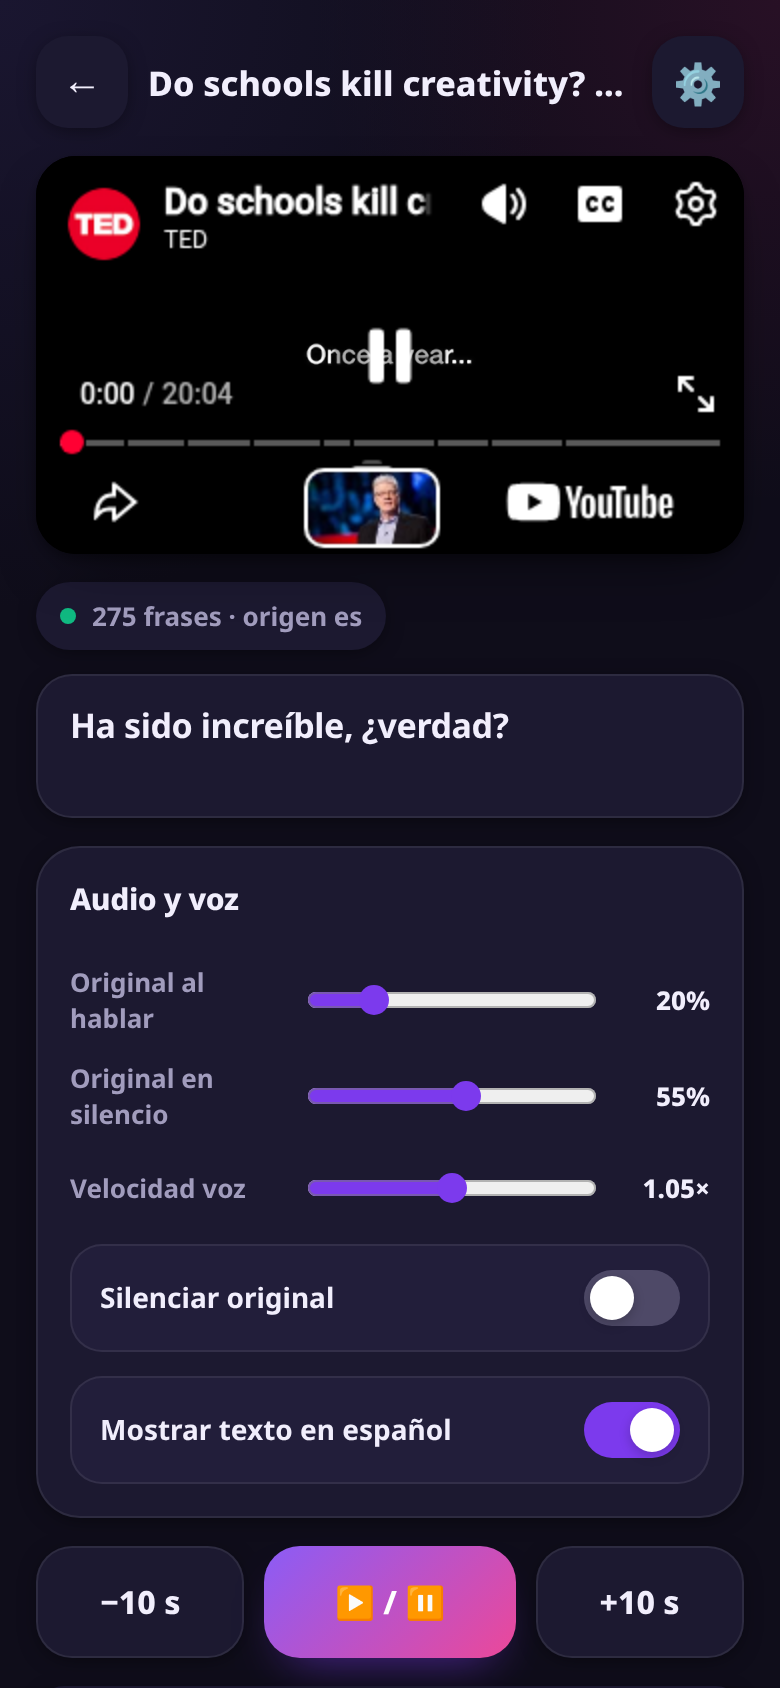
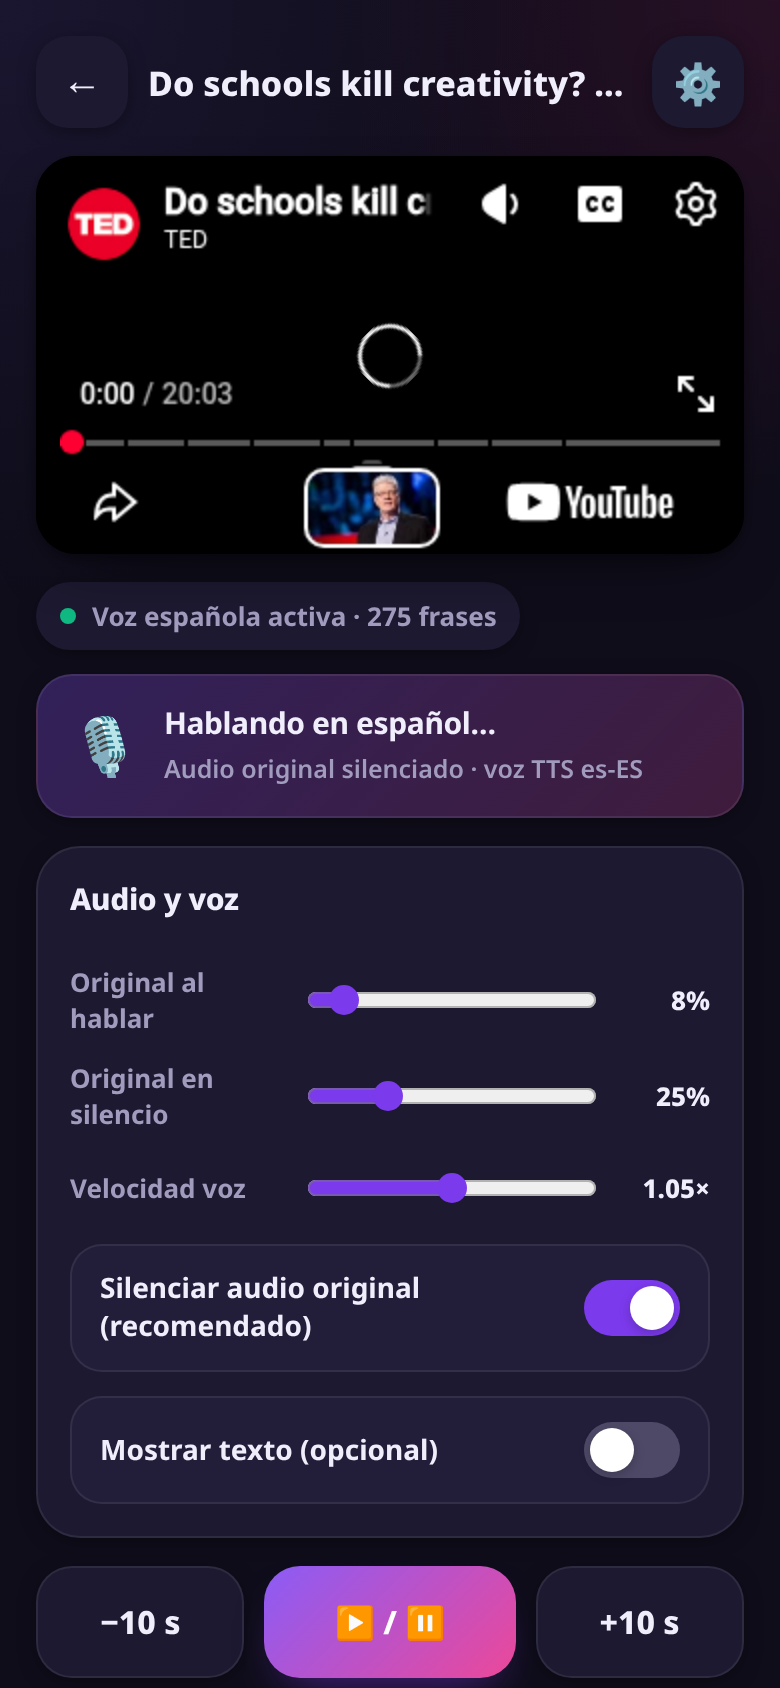
Sync voice-first build to gh-pages

diff --git a/app.js b/app.js
@@ -49,13 +49,13 @@
   ];
 
   const DEFAULT_SETTINGS = {
-    originalVolume: 20,      // 0–100 YouTube volume while Spanish speaks
-    idleVolume: 55,          // volume when not speaking
-    muteOriginal: false,
+    originalVolume: 8,       // residual original while Spanish speaks (if not muted)
+    idleVolume: 25,          // original between Spanish phrases (if not muted)
+    muteOriginal: true,      // product default: hear Spanish voice, not English audio
     voiceRate: 1.05,
     voicePitch: 1,
-    showCaptions: true,
-    lookahead: 0.35,         // seconds before caption start to trigger TTS
+    showCaptions: false,     // on-screen Spanish text is optional; TTS is the product
+    lookahead: 0.35,         // seconds before segment start to trigger TTS
     ducking: true,
     preferSpanishTrack: true,
     captionProxy: '',        // optional Cloudflare Worker URL
@@ -320,16 +320,34 @@
       applyDucking(true);
       state.currentIdx = idx;
       updateCaptionBox();
+      updateVoiceBanner();
     };
     u.onend = () => {
       state.speaking = false;
       applyDucking(false);
+      updateVoiceBanner();
     };
     u.onerror = () => {
       state.speaking = false;
       applyDucking(false);
+      updateVoiceBanner();
     };
     speechSynthesis.speak(u);
+  }
+
+
+  function updateVoiceBanner() {
+    const title = document.getElementById('voice-banner-title');
+    const sub = document.getElementById('voice-banner-sub');
+    if (!title || !sub) return;
+    title.textContent = state.speaking ? 'Hablando en español…' : 'Doblaje en español';
+    if (state.settings.muteOriginal) {
+      sub.textContent = 'Audio original silenciado · voz TTS es-ES';
+    } else if (state.settings.ducking) {
+      sub.textContent = `Original atenuado (${state.settings.originalVolume}%) mientras habla la voz`;
+    } else {
+      sub.textContent = 'Voz TTS + audio original a volumen normal';
+    }
   }
 
   function applyDucking(active) {
@@ -337,6 +355,7 @@
     if (state.settings.muteOriginal) {
       state.player.setVolume(0);
       state.player.mute?.();
+      updateVoiceBanner();
       return;
     }
     if (!state.settings.ducking) {
@@ -347,6 +366,7 @@
     state.player.unMute?.();
     const vol = active ? Number(state.settings.originalVolume) : Number(state.settings.idleVolume);
     state.player.setVolume(Math.max(0, Math.min(100, vol)));
+    updateVoiceBanner();
   }
 
   function syncLoop() {
@@ -401,7 +421,7 @@
       if (found >= 0) idx = found;
     }
     if (idx < 0 || !state.segments[idx]) {
-      el.innerHTML = '<span style="color:var(--muted);font-weight:600">Esperando voz en español…</span>';
+      el.innerHTML = '<span style="color:var(--muted);font-weight:600">Reproduciendo voz en español…</span>';
       return;
     }
     const s = state.segments[idx];
@@ -437,7 +457,7 @@
       events: {
         onReady: (e) => {
           applyDucking(false);
-          state.status = { kind: 'ok', msg: `${state.segments.length} frases listas · voz ES` };
+          state.status = { kind: 'ok', msg: `Voz española activa · ${state.segments.length} frases` };
           renderStatusOnly();
           syncLoop();
           try { e.target.playVideo(); } catch { /* autoplay may block */ }
@@ -495,7 +515,7 @@
 
       <section class="hero-card">
         <h2>Pega un enlace de YouTube</h2>
-        <p>Usamos los subtítulos del vídeo (preferimos español), los leemos en voz alta y atenuamos el audio original.</p>
+        <p>Escucha el vídeo en <b>voz española</b>: traducimos el habla (vía subtítulos internos) y la narramos con TTS. El audio original va silenciado o atenuado.</p>
         <div class="url-row">
           <input id="url-input" type="url" inputmode="url" autocomplete="off" spellcheck="false"
             placeholder="https://youtube.com/watch?v=…">
@@ -505,7 +525,7 @@
 
       <section class="card">
         <h3>Cómo funciona</h3>
-        <p class="hint">1) Subtítulos del vídeo → 2) traducción a español si hace falta → 3) voz TTS sincronizada (retraso típico 1–3 s). Sin subtítulos no hay doblaje automático; puedes pegar una transcripción.</p>
+        <p class="hint">1) Obtenemos la transcripción del vídeo (solo como fuente) → 2) la pasamos a español → 3) <b>voz TTS en español</b> sincronizada con el vídeo (retraso típico 1–3 s). El texto en pantalla es opcional y viene desactivado. Sin transcripción no hay doblaje; puedes pegar una manualmente.</p>
       </section>
 
       <section class="card">
@@ -534,8 +554,16 @@
         <i class="dot"></i><span>${escapeHtml(state.status.msg)}</span>
       </div>
 
+      <div class="voice-banner" id="voice-banner" aria-live="polite">
+        <span class="vb-icon">🎙</span>
+        <div>
+          <b id="voice-banner-title">Doblaje en español</b>
+          <small id="voice-banner-sub">El audio original está silenciado; oyes la voz TTS</small>
+        </div>
+      </div>
+
       <div class="caption-box ${state.settings.showCaptions ? '' : 'hidden'}" id="caption-box">
-        <span style="color:var(--muted);font-weight:600">Cargando subtítulos…</span>
+        <span style="color:var(--muted);font-weight:600">Preparando voz en español…</span>
       </div>
 
       <div class="card controls">
@@ -555,8 +583,8 @@
           <input type="range" id="rng-rate" min="0.7" max="1.4" step="0.05" value="${state.settings.voiceRate}">
           <output id="out-rate">${Number(state.settings.voiceRate).toFixed(2)}×</output>
         </div>
-        <div class="toggle" id="tog-mute"><span>Silenciar original</span><button type="button" class="switch ${state.settings.muteOriginal ? 'on' : ''}" data-key="muteOriginal" aria-pressed="${state.settings.muteOriginal}"></button></div>
-        <div class="toggle" id="tog-caps"><span>Mostrar texto en español</span><button type="button" class="switch ${state.settings.showCaptions ? 'on' : ''}" data-key="showCaptions" aria-pressed="${state.settings.showCaptions}"></button></div>
+        <div class="toggle" id="tog-mute"><span>Silenciar audio original (recomendado)</span><button type="button" class="switch ${state.settings.muteOriginal ? 'on' : ''}" data-key="muteOriginal" aria-pressed="${state.settings.muteOriginal}"></button></div>
+        <div class="toggle" id="tog-caps"><span>Mostrar texto (opcional)</span><button type="button" class="switch ${state.settings.showCaptions ? 'on' : ''}" data-key="showCaptions" aria-pressed="${state.settings.showCaptions}"></button></div>
       </div>
 
       <div class="play-bar">
@@ -795,7 +823,7 @@
     state.segments = [];
     state.lastSpokenIdx = -1;
     state.currentIdx = -1;
-    state.status = { kind: 'busy', msg: 'Buscando subtítulos…' };
+    state.status = { kind: 'busy', msg: 'Preparando doblaje en español…' };
     state.view = 'player';
     render();
 
@@ -812,15 +840,15 @@
         }
       } catch { /* */ }
       pushRecent(id, state.title);
-      state.status = { kind: 'ok', msg: `${segments.length} frases · origen ${langUsed}` };
+      state.status = { kind: 'ok', msg: `Voz ES lista · ${segments.length} frases` };
       renderStatusOnly();
       updateCaptionBox(0);
       if (state.ytReady) mountPlayer();
     } catch (err) {
       console.error(err);
-      state.status = { kind: 'err', msg: 'Sin subtítulos — pega una transcripción' };
+      state.status = { kind: 'err', msg: 'Sin transcripción — pégala para poder doblar' };
       renderStatusOnly();
-      toast('No se pudieron obtener subtítulos');
+      toast('No hay transcripción automática; pega una para doblar');
       openPasteSheet();
     }
   }

diff --git a/styles.css b/styles.css
@@ -210,3 +210,13 @@ textarea.paste {
 .progress-bar i { display: block; height: 100%; width: 0; background: var(--grad); transition: width .25s; }
 
 .footer-note { color: var(--muted); font-size: 12px; line-height: 1.4; margin-top: 18px; text-align: center; }
+
+.voice-banner {
+  display: flex; align-items: center; gap: 12px; margin-bottom: 14px;
+  padding: 14px 16px; border-radius: 18px;
+  background: linear-gradient(135deg, color-mix(in srgb, var(--accent) 22%, var(--card)), color-mix(in srgb, var(--accent-2) 18%, var(--card)));
+  border: 1px solid var(--line); box-shadow: var(--shadow-sm);
+}
+.voice-banner .vb-icon { font-size: 28px; flex: none; }
+.voice-banner b { display: block; font-size: 15px; letter-spacing: -.2px; }
+.voice-banner small { color: var(--muted); font-size: 12.5px; font-weight: 600; line-height: 1.35; }

diff --git a/sw.js b/sw.js
@@ -1,5 +1,5 @@
 /* Service worker — cache-first de la app estática. */
-const CACHE_VERSION = 'yt-castellano-v1';
+const CACHE_VERSION = 'yt-castellano-v3';
 const ASSETS = [
   './', './index.html', './styles.css', './app.js', './manifest.json',
   './icons/icon-192.png', './icons/icon-512.png', './icons/icon-maskable-512.png', './icons/apple-touch-icon.png'

diff --git a/README.md b/README.md
@@ -1,6 +1,6 @@
 # YT Castellano (PWA)
 
-Doblaje aproximado en español de vídeos de YouTube: pegas el enlace, la app lee los **subtítulos públicos** del vídeo (preferencia español), los sintetiza con **Web Speech API** (`es-ES`) y atenúa o silencia el audio original.
+Doblaje aproximado en español de vídeos de YouTube: pegas el enlace y **oyes una voz TTS en español** del contenido hablado. Los subtítulos/transcripción son solo la fuente interna (traducción → voz); el texto en pantalla es opcional y viene **desactivado**. Por defecto el audio original va **silenciado**.
 
 **Uso educativo / personal.** No descarga ni redistribuye el media de YouTube; depende de las pistas de subtítulos públicas y del reproductor iframe oficial. No redistribuir contenidos de terceros.
 
